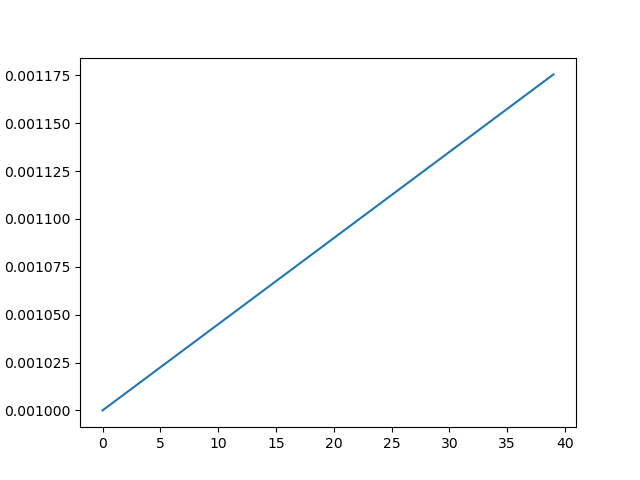
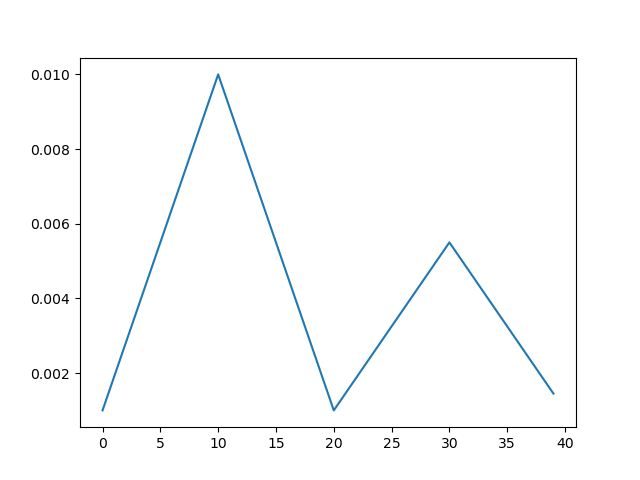
Fixes for CyclicBS (#11)
* Fixed text and plit for CyclicLR-triangular2.png

* Changed step 0 for CyclicBS

* Fixed bug with CyclicBS

diff --git a/bs_scheduler/batch_size_schedulers.py b/bs_scheduler/batch_size_schedulers.py
@@ -1282,6 +1282,7 @@ class CyclicBS(BSScheduler):
         self.scale_mode: str = scale_mode
         self._init_scale_fn()
 
+        self.base_batch_size: Union[int, None] = base_batch_size
         super().__init__(dataloader, batch_size_manager, max_batch_size, min_batch_size, verbose)
         self.base_batch_size: int = self.dataloader._base_batch_size if base_batch_size is None else base_batch_size
         assert self.min_batch_size < self.base_batch_size
@@ -1315,8 +1316,8 @@ class CyclicBS(BSScheduler):
         """ Returns the next batch size as an :class:`int`. The value of the batch size cycles from base_batch_size to
         max_batch_size and back, while being scaled at each iteration.
         """
-        if self.last_epoch == 0:  # Don't do anything at initialization.
-            return self.batch_size
+        if self.last_epoch == 0:  # Return base batch size or current batch size at initialization.
+            return self.base_batch_size if self.base_batch_size is not None else self.batch_size
 
         ratio = self.last_epoch / self.total_size
         cycle = math.floor(1 + ratio)

diff --git a/tests/test_CyclicBS.py b/tests/test_CyclicBS.py
@@ -167,7 +167,7 @@ class TestConstantBS(BSTest):
         model = torch.nn.Linear(10, 10)
         optimizer = torch.optim.SGD(model.parameters(), lr=0.01)
         scheduler = torch.optim.lr_scheduler.CyclicLR(optimizer, base_lr=0.001, max_lr=0.01, mode='triangular2',
-                                                      gamma=gamma, step_size_down=step_size_down)
+                                                      gamma=gamma, step_size_up=step_size_down)
         learning_rates = []
 
         def get_lr(optimizer):
